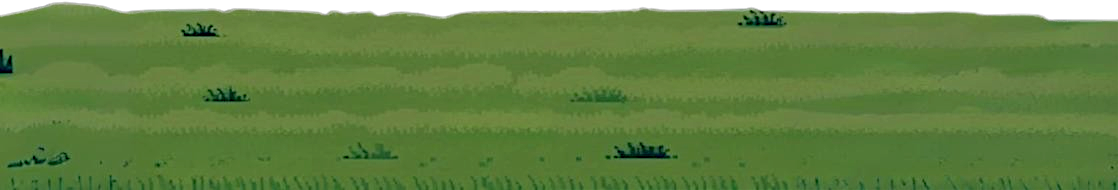
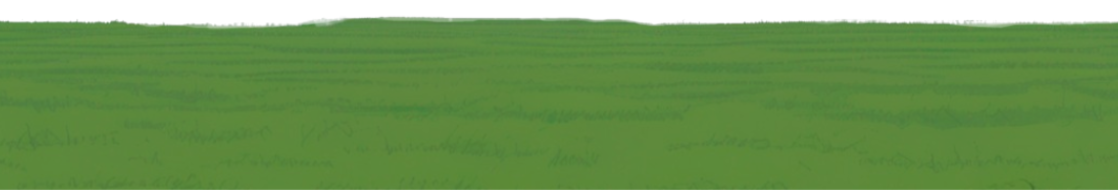
New grass texture

diff --git a/lib/core/flame/components/environment/environment.dart b/lib/core/flame/components/environment/environment.dart
@@ -6,12 +6,12 @@ import 'package:flame/components.dart';
 
 class Environment extends PositionComponent with HasWorldReference<MainWorld> {
   late final BackgroundScenery _backgroundScenery = BackgroundScenery()
-    ..position = Vector2(0, world.worldHeight)
+    ..position = Vector2(0, world.worldHeight + 30)
     ..anchor = Anchor.bottomLeft
-    ..opacity = 0.35;
+    ..opacity = 0.4;
 
   late final Ground _ground = Ground()
-    ..position = Vector2(0, world.worldHeight + 20)
+    ..position = Vector2(0, world.worldHeight)
     ..anchor = Anchor.bottomLeft;
 
   // The height of the sky, where the ground starts.

diff --git a/README.md b/README.md
@@ -24,6 +24,7 @@ Delete all merged branches:
 - Image generation
     - Generic free tool: https://bing.com/create
     - Fremium tool that appears to be higher quality: https://app.leonardo.ai
+    - Free tool: https://beta.pixelvibe.com/ (aimed at pixel art, but fairly limited in types)
 - Removing backgrounds: https://www.remove.bg/upload
 - Edit manipulation/extension: https://app.runwayml.com/
 - Removing objects: https://snapedit.app/
